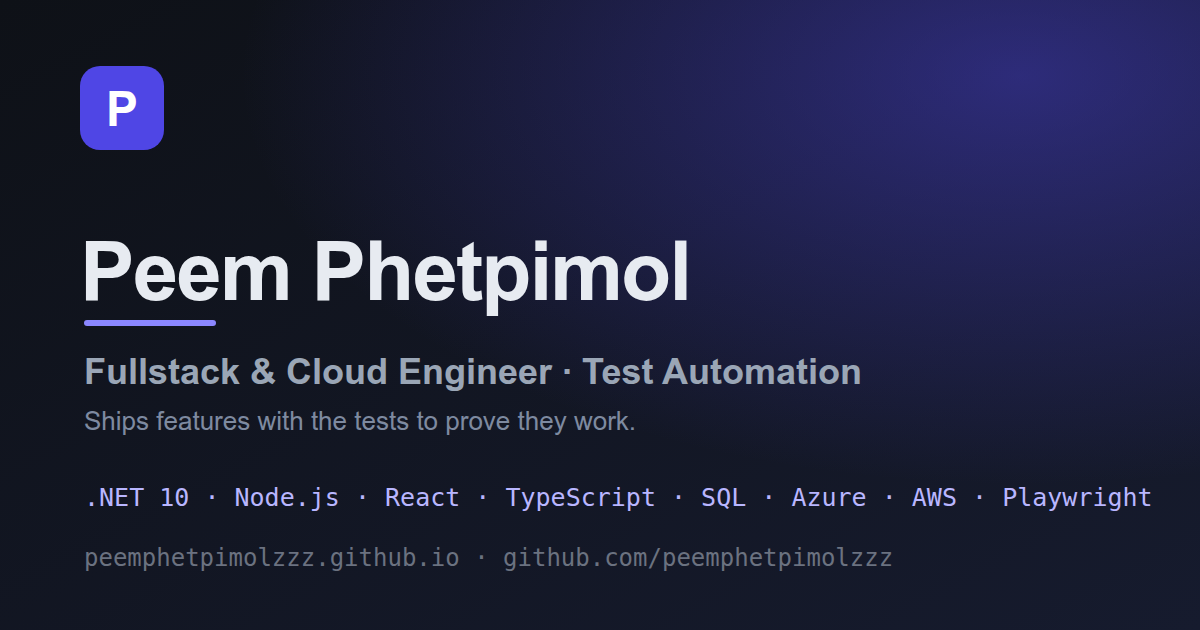
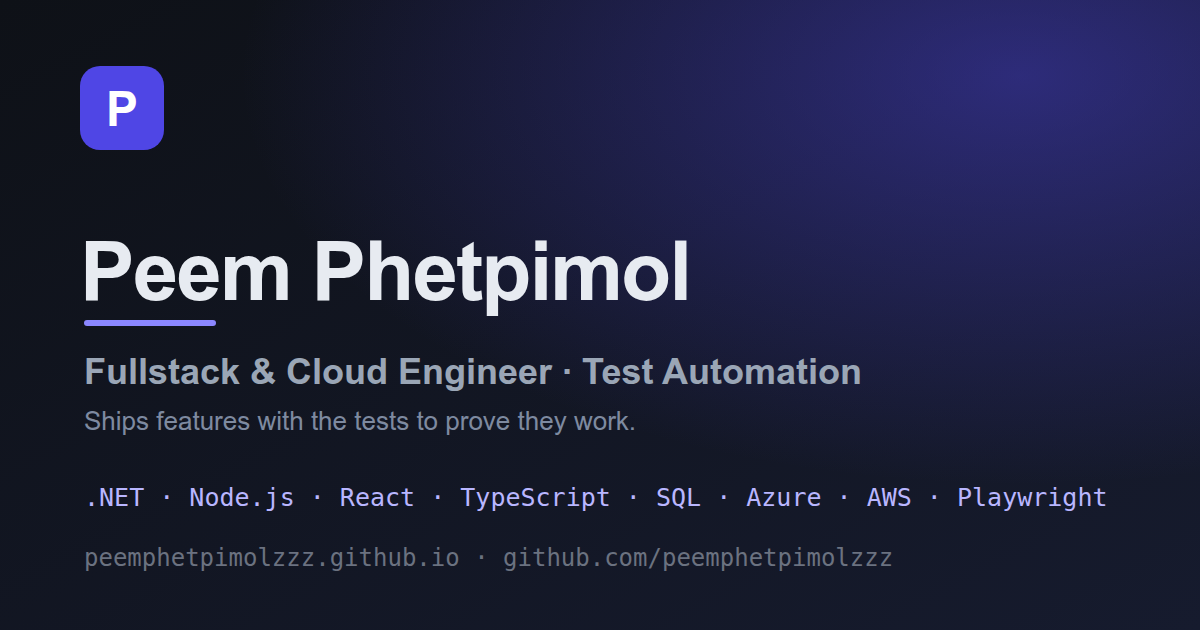
Use evergreen version-free technology labels across portfolio and OG image

Changed region(s): [[0.1233, 0.754, 0.9558, 0.8143]]

diff --git a/index.html b/index.html
@@ -5,7 +5,7 @@
   <meta name="viewport" content="width=device-width, initial-scale=1.0, viewport-fit=cover" />
   <meta name="color-scheme" content="light dark" />
   <meta name="theme-color" content="#ffffff" id="meta-theme-color" />
-  <meta name="description" content="Peem Phetpimol — Fullstack &amp; Cloud Engineer (.NET 10, Node.js, React, Docker, Azure, AWS) &amp; Test Automation. Software that ships with automated tests and cloud infrastructure." />
+  <meta name="description" content="Peem Phetpimol — Fullstack &amp; Cloud Engineer (.NET, Node.js, React, Docker, Azure, AWS) &amp; Test Automation. Software that ships with automated tests and cloud infrastructure." />
   <meta name="google-site-verification" content="Zj-s9a_Assr8dkMOqE6ZiSe7zyKuJk6naNOqsbEahHY" />
   <title>Peem Phetpimol — Fullstack &amp; Cloud Engineer · Test Automation</title>
   <link rel="canonical" href="https://peemphetpimolzzz.github.io/" />
@@ -18,14 +18,14 @@
 
   <meta property="og:type" content="website" />
   <meta property="og:title" content="Peem Phetpimol — Fullstack &amp; Cloud Engineer · Test Automation" />
-  <meta property="og:description" content="Software that ships with automated tests and one-command cloud &amp; Docker setups — .NET 10, Node.js, React, Azure, AWS." />
+  <meta property="og:description" content="Software that ships with automated tests and one-command cloud &amp; Docker setups — .NET, Node.js, React, Azure, AWS." />
   <meta property="og:url" content="https://peemphetpimolzzz.github.io/" />
   <meta property="og:image" content="https://peemphetpimolzzz.github.io/assets/og-image.png" />
   <meta property="og:image:width" content="1200" />
   <meta property="og:image:height" content="630" />
   <meta name="twitter:card" content="summary_large_image" />
   <meta name="twitter:title" content="Peem Phetpimol — Fullstack &amp; Cloud Engineer · Test Automation" />
-  <meta name="twitter:description" content="Software that ships with automated tests and one-command cloud &amp; Docker setups — .NET 10, Node.js, React, Azure, AWS." />
+  <meta name="twitter:description" content="Software that ships with automated tests and one-command cloud &amp; Docker setups — .NET, Node.js, React, Azure, AWS." />
   <meta name="twitter:image" content="https://peemphetpimolzzz.github.io/assets/og-image.png" />
 
   <script type="application/ld+json">
@@ -43,7 +43,7 @@
       "https://lin.ee/y54iiLR"
     ],
     "knowsAbout": [
-      ".NET 10",
+      ".NET",
       "C#",
       "Node.js",
       "React",
@@ -149,12 +149,12 @@
       <div class="container">
         <h2 class="section__title" data-en="Stack" data-th="เทคโนโลยีที่ใช้">Stack</h2>
         <ul class="chips">
-          <li>.NET 10 (C#)</li>
-          <li>Node.js 22</li>
+          <li>.NET (C#)</li>
+          <li>Node.js</li>
           <li>React</li>
           <li>TypeScript</li>
           <li>SQL Server</li>
-          <li>PostgreSQL 17</li>
+          <li>PostgreSQL</li>
           <li>Docker</li>
           <li>Playwright</li>
           <li>k6</li>
@@ -187,7 +187,7 @@
               Fullstack inventory app — CRUD, stock ledger, low-stock dashboard, end-to-end tested.
             </p>
             <ul class="card__tags">
-              <li>.NET 10</li><li>EF Core</li><li>SQL Server</li><li>React</li><li>Playwright</li><li>Azure</li>
+              <li>.NET</li><li>EF Core</li><li>SQL Server</li><li>React</li><li>Playwright</li><li>Azure</li>
             </ul>
           </a>
 
@@ -201,7 +201,7 @@
               JWT auth with refresh-token rotation + role-based access, documented with Swagger.
             </p>
             <ul class="card__tags">
-              <li>.NET 10</li><li>EF Core</li><li>PostgreSQL</li><li>JWT</li><li>AWS</li>
+              <li>.NET</li><li>EF Core</li><li>PostgreSQL</li><li>JWT</li><li>AWS</li>
             </ul>
           </a>
 
